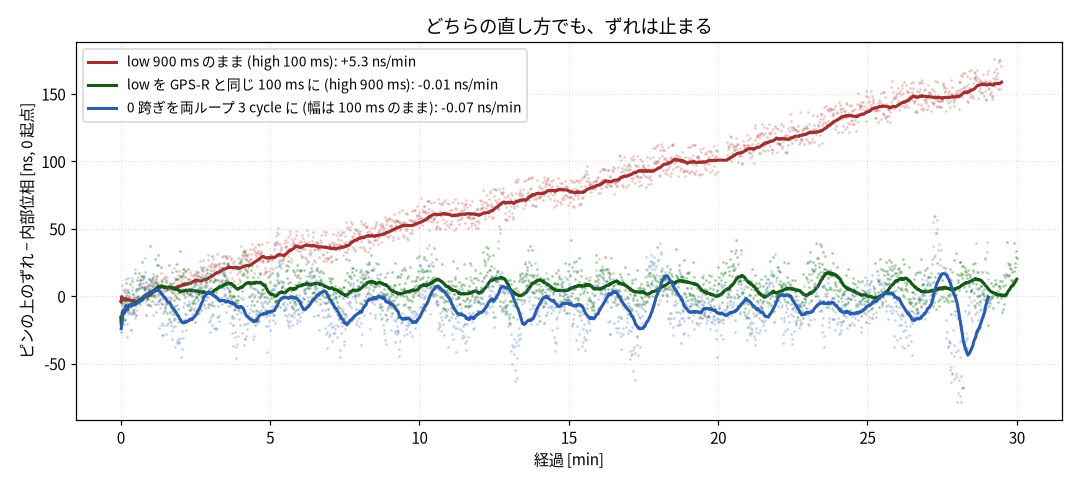
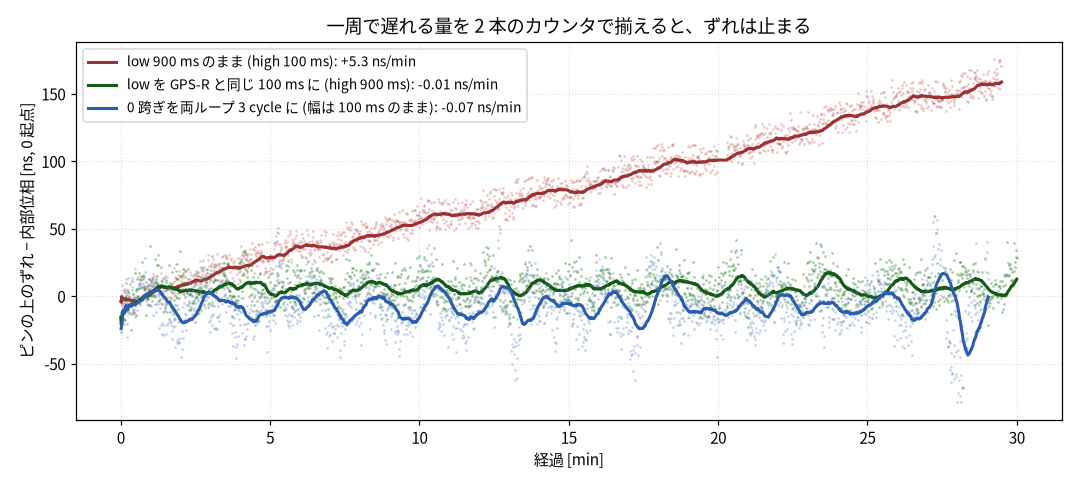
feat(pico-gnss): 出力パルス幅の既定を幅合わせ (high 900ms) に
実測 3 本比較で幅合わせ構成が最も安定だったため、運用既定を high 900ms (low を GPS-R と
同じ 100ms に揃える) にする。対称化捕捉プログラム (WRAP_BALANCED_CAPTURE) は併用のまま:
外部機器互換で幅を 100ms へ戻しても系統ドリフトが再発しない保険。レポートの帰結と
3 本比較図のタイトル (一周で遅れる量を 2 本のカウンタで揃えると、ずれは止まる) も更新。
本番 stage-5 で起動確認済み (CAPCFG wrap_balanced=1)。

Claude-Session: https://claude.ai/code/session_01QA3SZ4k1hmnnVeG51UZWBZ

diff --git a/pico-gnss/src/main.rs b/pico-gnss/src/main.rs
@@ -1459,7 +1459,7 @@ async fn main(spawner: Spawner) {
         // 100ms 実測、出力は high 100ms) の分だけ 2 カウンタが 0.436×Δduty tick/min で離れる (=定期校正が
         // 追っていた ~5.6ns/min の正体)。900ms にして duty を揃えると march は −0.01ns/min に消える (実証済み)。
         // 本番は外部機器互換で 100ms のまま、恒久修正は WRAP_BALANCED_CAPTURE (一周コスト対称の capture) が担う。
-        const PPS_PULSE_NS: u32 = 100_000_000; // 100 ms
+        const PPS_PULSE_NS: u32 = 900_000_000; // 既定 = 幅合わせ (low 100ms、GPS-R と同じ)。外部機器互換が要る場合は 100ms へ
         let output = SteeredPpsOutput::new(&mut common, sm1, p.PIN_3, clk_sys_freq(), PPS_PULSE_NS);
 
         // --- 実験: SM3 を GP2 に常時向けた純観測 SM として起動 (KEXP 診断。制御には非関与) ---

diff --git a/docs/report/precision-ladder/README.md b/docs/report/precision-ladder/README.md
@@ -325,7 +325,7 @@ highchk:
 
 ![3 つの計測の比較。何もしない (赤、low 900 ms のまま) とピンのずれは +5.3 ns/min で増え続ける。low を GPS-R と同じ 100 ms に揃える (緑) と −0.01 ns/min、幅はそのままに 0 跨ぎのコストを両ループ 3 cycle へ揃える (青) と −0.07 ns/min で、どちらも止まる](precision-figs/fig-w900.png)
 
-定期校正が黙って吸収し続けていた実ドリフトの正体は、一周のコスト差にピンの low 時間の差を掛けた、ただの数え損ないだった。アナログな揺らぎではないから、温度にも受信にもよらず、一定の速さで積もり続ける。スリップ調査で立てた 3 つの候補でいえば波形依存が当たりだったことになるが、効いていたのはエッジの非同期性ではなく、パルスの high と low の割合という、もっと素朴な性質だった。言い換えれば、時計が入力に感応していた。捕捉カウンタは時計とエッジ待ちを 1 本のプログラムで兼ねていて、どの行を回るかは見ている波形が決める。例外のコストが行によって違えば、時計の速さが波形に引きずられる。同じ波形を見る 2 本が離れず、ピンが違う 2 本だけがずれたのは、この構図の帰結だった。恒久策は 0 跨ぎのコストの対称化のほうにした。全カウンタが毎周同じだけ遅れるようになるが、共通の遅れは読みの差から消え、周波数の補正が吸収する。パルス幅を揃えるほうは恒久策にはしない。受信機の波形という外部条件に正しさを預けることになり、受信機や設定が変わると痕跡を残さず再発するからだ。運用は出力パルス 100 ms (機器へ配る一般的な幅) と対称化した捕捉プログラムの組で、定期校正はほかの遅いドリフトの保険として残す。
+定期校正が黙って吸収し続けていた実ドリフトの正体は、一周のコスト差にピンの low 時間の差を掛けた、ただの数え損ないだった。アナログな揺らぎではないから、温度にも受信にもよらず、一定の速さで積もり続ける。スリップ調査で立てた 3 つの候補でいえば波形依存が当たりだったことになるが、効いていたのはエッジの非同期性ではなく、パルスの high と low の割合という、もっと素朴な性質だった。言い換えれば、時計が入力に感応していた。捕捉カウンタは時計とエッジ待ちを 1 本のプログラムで兼ねていて、どの行を回るかは見ている波形が決める。例外のコストが行によって違えば、時計の速さが波形に引きずられる。同じ波形を見る 2 本が離れず、ピンが違う 2 本だけがずれたのは、この構図の帰結だった。直しはどちらも入れた。運用の既定はパルス幅合わせ (high 900 ms) で、捕捉プログラムも対称版にしてある。対称版は全カウンタを毎周同じだけ遅らせるが、共通の遅れは読みの差から消え、周波数の補正が吸収する。幅合わせだけに頼らないのは、受信機の波形という外部条件に正しさを預けると、受信機や設定が変わったとき痕跡を残さず再発するからで、対称版が入っている限り、幅を機器へ配る一般的な 100 ms へ戻しても系統ドリフトは出ない。定期校正はほかの遅いドリフトの保険として残す。
 
 ## 長時間でのふらつき
 
